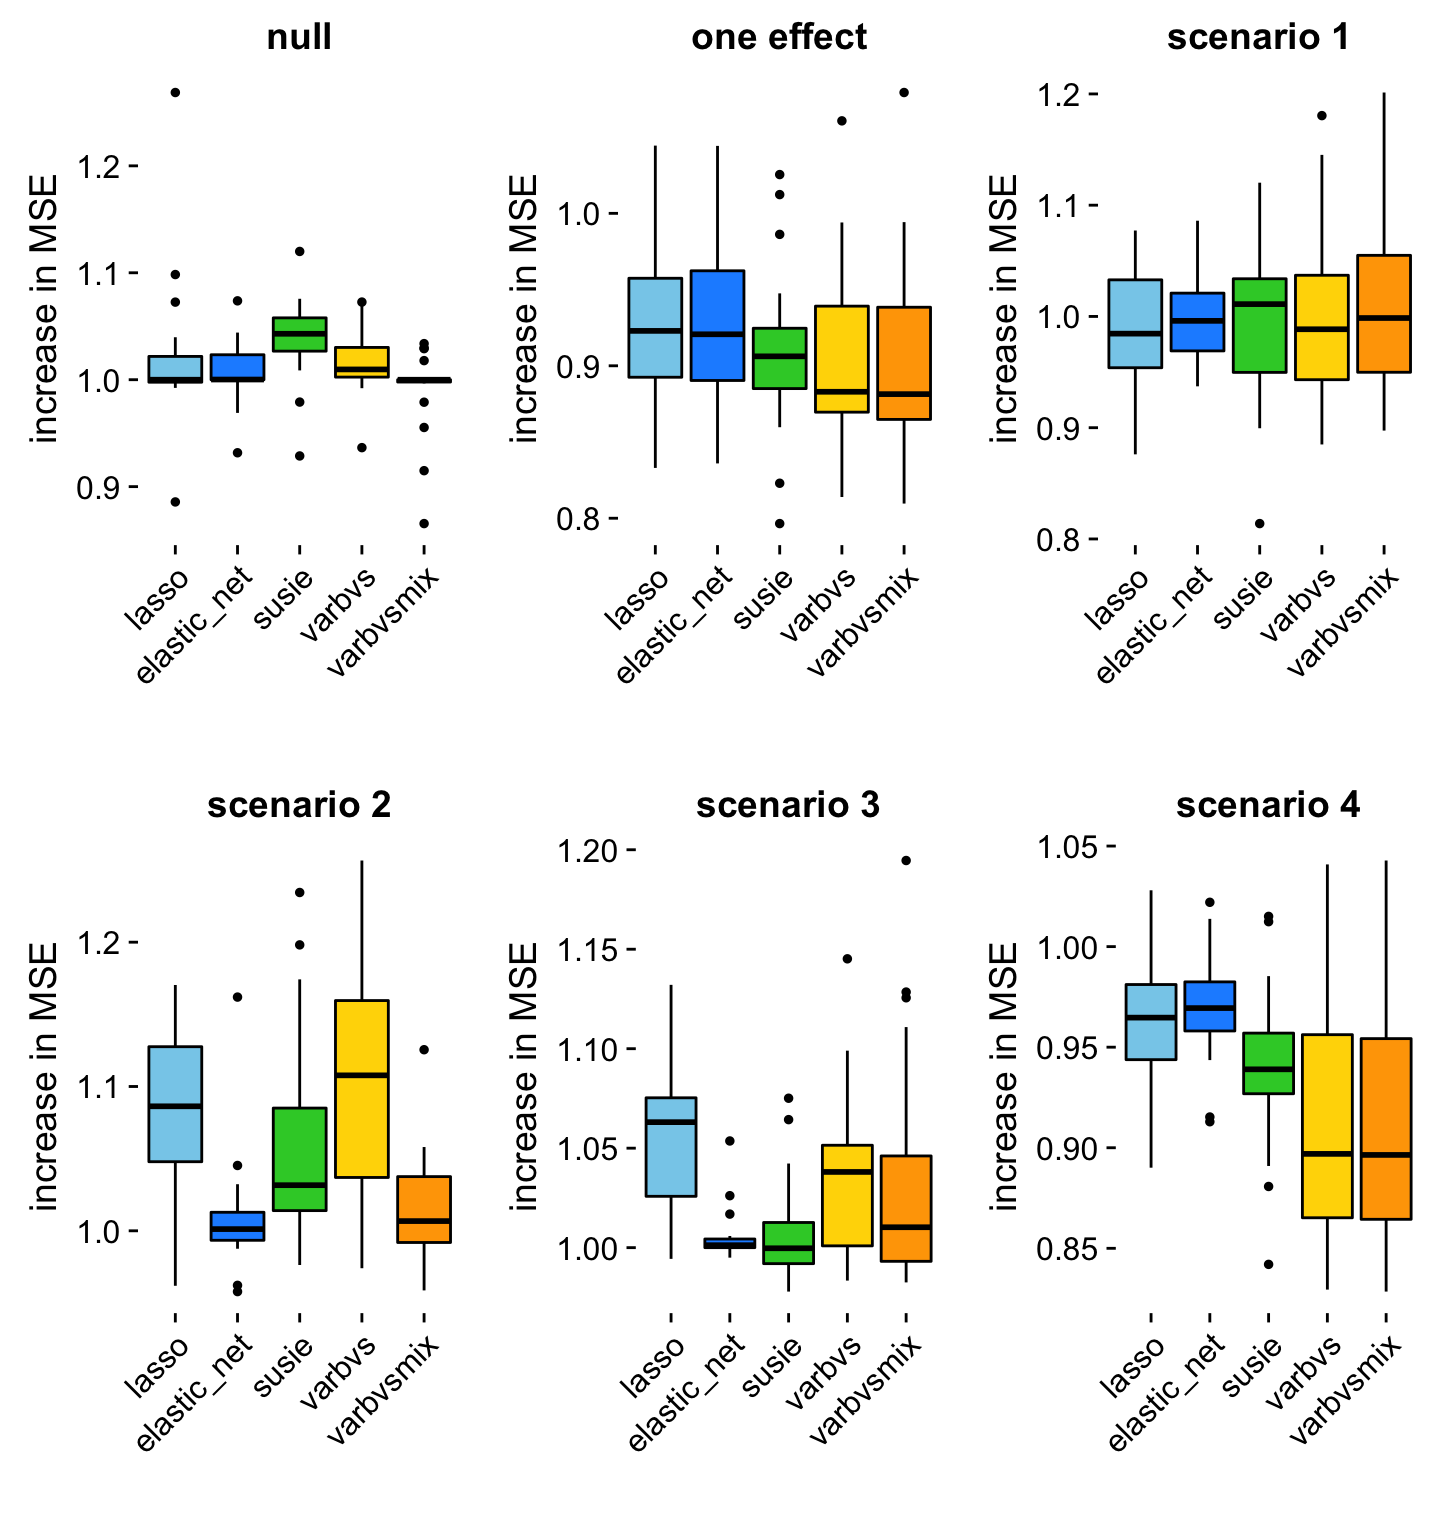
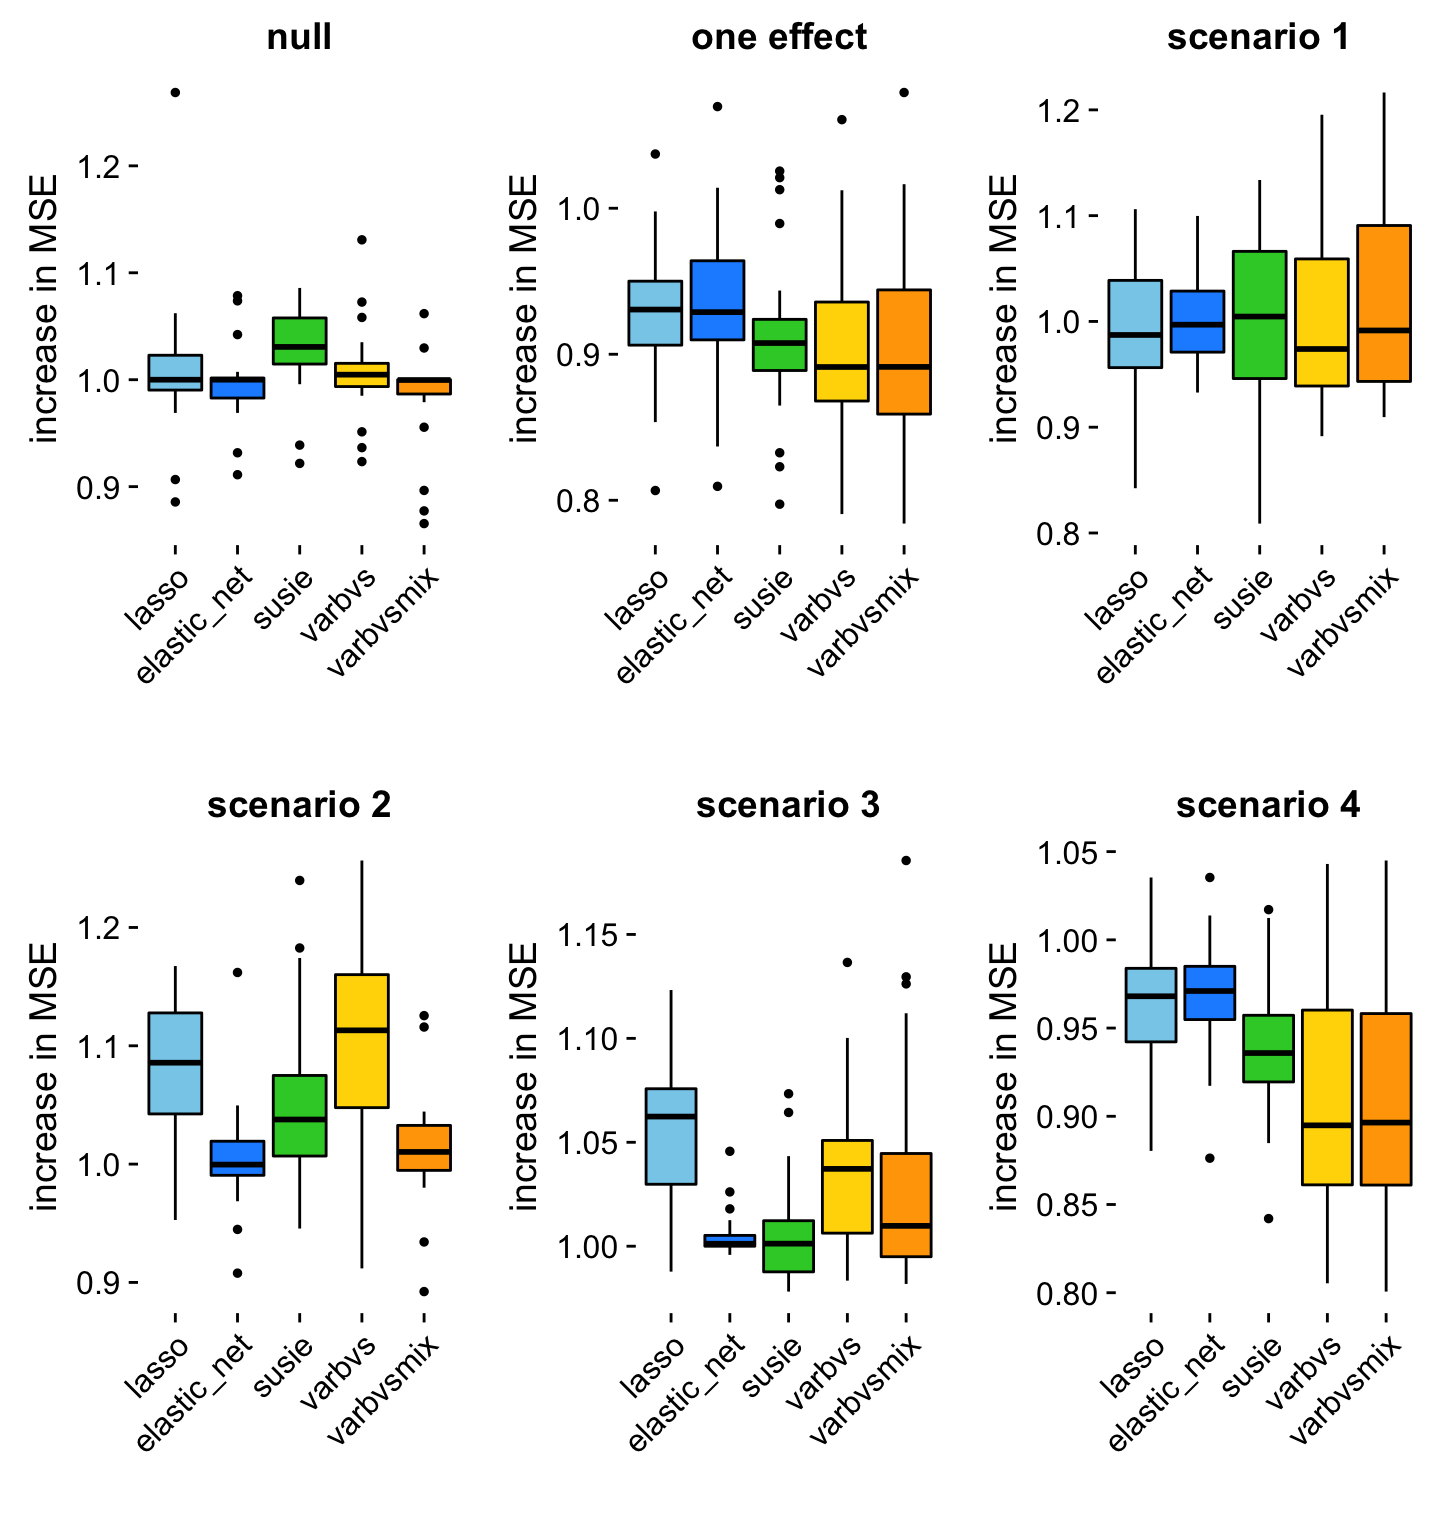
Re-built results_overview with newly generated DSC results.

diff --git a/docs/results_overview.html b/docs/results_overview.html
@@ -213,7 +213,7 @@ div.section {
 
 <p>
 <button type="button" class="btn btn-default btn-workflowr btn-workflowr-report" data-toggle="collapse" data-target="#workflowr-report">
-<span class="glyphicon glyphicon-list" aria-hidden="true"></span> workflowr <span class="glyphicon glyphicon-exclamation-sign text-danger" aria-hidden="true"></span>
+<span class="glyphicon glyphicon-list" aria-hidden="true"></span> workflowr <span class="glyphicon glyphicon-ok text-success" aria-hidden="true"></span>
 </button>
 </p>
 <div id="workflowr-report" class="collapse">
@@ -222,7 +222,7 @@ div.section {
 <a data-toggle="tab" href="#summary">Summary</a>
 </li>
 <li>
-<a data-toggle="tab" href="#checks"> Checks <span class="glyphicon glyphicon-exclamation-sign text-danger" aria-hidden="true"></span> </a>
+<a data-toggle="tab" href="#checks"> Checks <span class="glyphicon glyphicon-ok text-success" aria-hidden="true"></span> </a>
 </li>
 <li>
 <a data-toggle="tab" href="#versions">Past versions</a>
@@ -231,10 +231,10 @@ div.section {
 <div class="tab-content">
 <div id="summary" class="tab-pane fade in active">
 <p>
-<strong>Last updated:</strong> 2019-04-10
+<strong>Last updated:</strong> 2019-04-13
 </p>
 <p>
-<strong>Checks:</strong> <span class="glyphicon glyphicon-ok text-success" aria-hidden="true"></span> 5 <span class="glyphicon glyphicon-exclamation-sign text-danger" aria-hidden="true"></span> 1
+<strong>Checks:</strong> <span class="glyphicon glyphicon-ok text-success" aria-hidden="true"></span> 6 <span class="glyphicon glyphicon-exclamation-sign text-danger" aria-hidden="true"></span> 0
 </p>
 <p>
 <strong>Knit directory:</strong> <code>dsc-linreg/analysis/</code> <span class="glyphicon glyphicon-question-sign" aria-hidden="true" title="This is the local directory in which the code in this file was executed."> </span>
@@ -250,12 +250,12 @@ This reproducible <a href="http://rmarkdown.rstudio.com">R Markdown</a> analysis
 <div class="panel panel-default">
 <div class="panel-heading">
 <p class="panel-title">
-<a data-toggle="collapse" data-parent="#workflowr-checks" href="#strongRMarkdownfilestronguncommittedchanges"> <span class="glyphicon glyphicon-exclamation-sign text-danger" aria-hidden="true"></span> <strong>R Markdown file:</strong> uncommitted changes </a>
+<a data-toggle="collapse" data-parent="#workflowr-checks" href="#strongRMarkdownfilestronguptodate"> <span class="glyphicon glyphicon-ok text-success" aria-hidden="true"></span> <strong>R Markdown file:</strong> up-to-date </a>
 </p>
 </div>
-<div id="strongRMarkdownfilestronguncommittedchanges" class="panel-collapse collapse">
+<div id="strongRMarkdownfilestronguptodate" class="panel-collapse collapse">
 <div class="panel-body">
-<p>The R Markdown file has unstaged changes. To know which version of the R Markdown file created these results, you’ll want to first commit it to the Git repo. If you’re still working on the analysis, you can ignore this warning. When you’re finished, you can run <code>wflow_publish</code> to commit the R Markdown file and build the HTML.</p>
+<p>Great! Since the R Markdown file has been committed to the Git repository, you know the exact version of the code that produced these results.</p>
 </div>
 </div>
 </div>
@@ -310,10 +310,10 @@ This reproducible <a href="http://rmarkdown.rstudio.com">R Markdown</a> analysis
 <div class="panel panel-default">
 <div class="panel-heading">
 <p class="panel-title">
-<a data-toggle="collapse" data-parent="#workflowr-checks" href="#strongRepositoryversionstrongahrefhttpsgithubcomstephenslabdsclinregtree769f19950020e18d44d7eb5db5279646911651a1targetblank769f199a"> <span class="glyphicon glyphicon-ok text-success" aria-hidden="true"></span> <strong>Repository version:</strong> <a href="https://github.com/stephenslab/dsc-linreg/tree/769f19950020e18d44d7eb5db5279646911651a1" target="_blank">769f199</a> </a>
+<a data-toggle="collapse" data-parent="#workflowr-checks" href="#strongRepositoryversionstrongahrefhttpsgithubcomstephenslabdsclinregtree5811a58890a18795c37282b0b5179b23b8ae4df2targetblank5811a58a"> <span class="glyphicon glyphicon-ok text-success" aria-hidden="true"></span> <strong>Repository version:</strong> <a href="https://github.com/stephenslab/dsc-linreg/tree/5811a58890a18795c37282b0b5179b23b8ae4df2" target="_blank">5811a58</a> </a>
 </p>
 </div>
[2 lines of base64/hex data omitted]
 <div class="panel-body">
 <p>
 Great! You are using Git for version control. Tracking code development and connecting the code version to the results is critical for reproducibility. The version displayed above was the version of the Git repository at the time these results were generated. <br><br> Note that you need to be careful to ensure that all relevant files for the analysis have been committed to Git prior to generating the results (you can use <code>wflow_publish</code> or <code>wflow_git_commit</code>). workflowr only checks the R Markdown file, but you know if there are other scripts or data files that it depends on. Below is the status of the Git repository when the results were generated:
@@ -325,11 +325,9 @@ Ignored files:
     Ignored:    dsc/.sos/
     Ignored:    dsc/linreg/
 
-Untracked files:
-    Untracked:  dsc/.DS_Store
-
 Unstaged changes:
-    Modified:   analysis/results_overview.Rmd
+    Modified:   code/plots.R
+    Modified:   output/linreg_mse.csv
 
 </code></pre>
 <p>
@@ -368,6 +366,57 @@ Message
 </tr>
 </thead>
 <tbody>
+<tr>
+<td>
+Rmd
+</td>
+<td>
+<a href="https://github.com/stephenslab/dsc-linreg/blob/5811a58890a18795c37282b0b5179b23b8ae4df2/analysis/results_overview.Rmd" target="_blank">5811a58</a>
+</td>
+<td>
+Peter Carbonetto
+</td>
+<td>
+2019-04-13
+</td>
+<td>
+wflow_publish(“results_overview.Rmd”)
+</td>
+</tr>
+<tr>
+<td>
+Rmd
+</td>
+<td>
+<a href="https://github.com/stephenslab/dsc-linreg/blob/cfcb97b4f6803d22acd623f9bcea9181c7cedecd/analysis/results_overview.Rmd" target="_blank">cfcb97b</a>
+</td>
+<td>
+Peter Carbonetto
+</td>
+<td>
+2019-04-10
+</td>
+<td>
+Moved links to bottom of each .Rmd file.
+</td>
+</tr>
+<tr>
+<td>
+html
+</td>
+<td>
+<a href="https://rawcdn.githack.com/stephenslab/dsc-linreg/cfcb97b4f6803d22acd623f9bcea9181c7cedecd/docs/results_overview.html" target="_blank">cfcb97b</a>
+</td>
+<td>
+Peter Carbonetto
+</td>
+<td>
+2019-04-10
+</td>
+<td>
+Moved links to bottom of each .Rmd file.
+</td>
+</tr>
 <tr>
 <td>
 Rmd
@@ -764,13 +813,13 @@ source(&quot;../code/plots.R&quot;)</code></pre>
 <p>Here we use function “dscquery” from the dscrutils package to extract the DSC results we are interested in—the mean squared error in the predictions from each method and in each simulation scenario. After this call, the “dsc” data frame should contain results for 720 pipelines—6 methods times 6 scenarios times 20 data sets simulated in each scenario.</p>
 <pre class="r"><code>library(dscrutils)
 methods &lt;- c(&quot;ridge&quot;,&quot;lasso&quot;,&quot;elastic_net&quot;,&quot;susie&quot;,&quot;varbvs&quot;,&quot;varbvsmix&quot;)
-dsc &lt;- dscquery(&quot;../dsc/linreg&quot;,c(&quot;fit&quot;,&quot;mse.err&quot;),
-                c(&quot;simulate.scenario&quot;,&quot;simulate.seed&quot;),
+dsc &lt;- dscquery(&quot;../dsc/linreg&quot;,c(&quot;fit&quot;,&quot;mse.err&quot;),&quot;simulate.scenario&quot;,
                 verbose = FALSE)
-dsc &lt;- dsc[c(&quot;simulate&quot;,&quot;simulate.scenario&quot;,&quot;simulate.seed&quot;,&quot;fit&quot;,&quot;mse.err&quot;)]
+dsc &lt;- dsc[c(&quot;DSC&quot;,&quot;simulate&quot;,&quot;simulate.scenario&quot;,&quot;fit&quot;,&quot;mse.err&quot;)]
 dsc &lt;- transform(dsc,
                  simulate = factor(simulate),
                  fit      = factor(fit,methods))
+names(dsc)[1] &lt;- &quot;seed&quot;
 nrow(dsc)
 # [1] 720</code></pre>
 <p>Note that you will need to run the DSC before querying the results; see <a href="usage_instructions.html">here</a> for instructions on running the DSC. If you did not run the DSC to generate these results, you can replace the dscquery call above by this line to load the pre-extracted results stored in a CSV file:</p>
